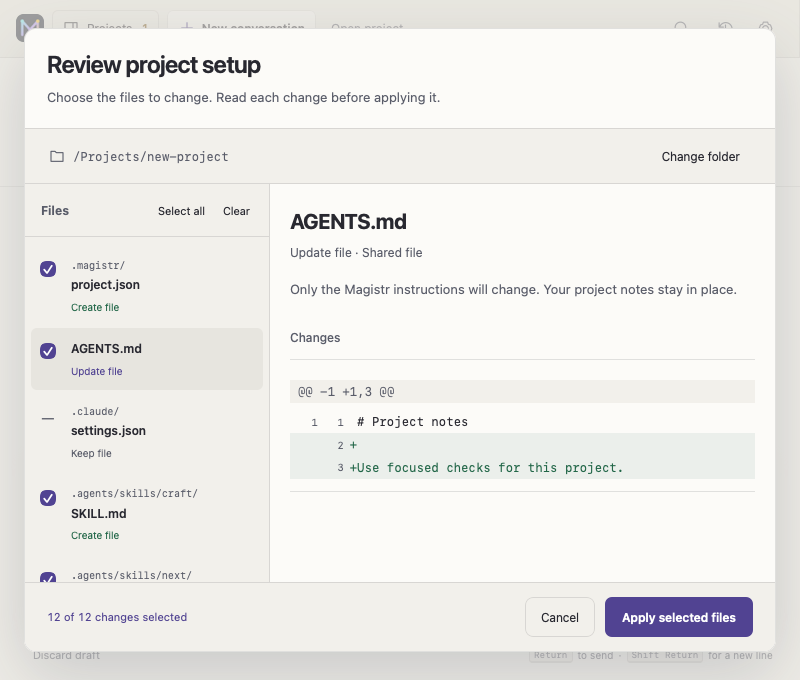
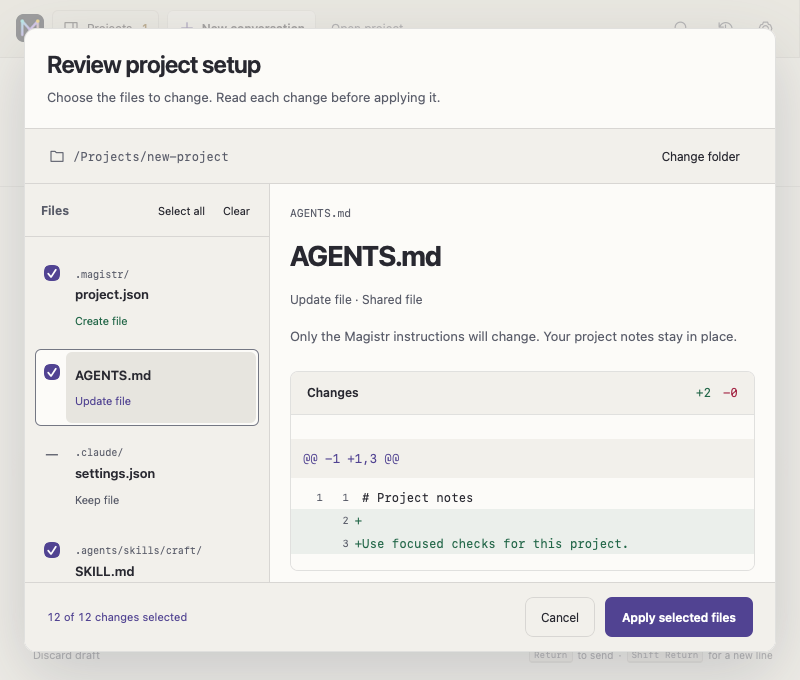
feat(desktop): turn setup review into a structured source inspection surface

diff --git a/crates/magistr-desktop/ui/style.css b/crates/magistr-desktop/ui/style.css
@@ -364,23 +364,25 @@ dialog h3{margin:20px 0 10px;font-size:17px}.dialog-actions{display:flex;justify
 .setup-list{display:flex;flex-direction:column;min-height:0;background:var(--panel);border-right:1px solid var(--separator)}
 .setup-selection{display:flex;align-items:center;gap:4px;padding:10px 12px;flex-shrink:0;border-bottom:1px solid var(--separator)}
 .setup-selection h3{font-size:12px;color:var(--muted);margin:0 8px 0 4px;flex:1}.setup-selection button{border-color:transparent;background:transparent;font-size:11px;padding:4px 6px}
-#setup-files{overflow:auto;min-height:0;padding:6px}
+#setup-files{overflow:auto;min-height:0;padding:10px}
 .setup-file{display:flex;align-items:flex-start;gap:6px;padding:3px;border:0;border-radius:6px}
-.setup-file:has([aria-current=true]){background:var(--raised)}.setup-file{margin:3px 0}.setup-file input{width:16px;min-height:16px;flex-shrink:0;margin:12px 0 0 6px;accent-color:var(--accent)}
+.setup-file:has([aria-current=true]){background:var(--base);outline:1px solid var(--line);outline-offset:-1px}.setup-file{margin:3px 0}.setup-file input{width:16px;min-height:16px;flex-shrink:0;margin:12px 0 0 6px;accent-color:var(--accent)}
 .setup-kept{width:16px;flex-shrink:0;margin:10px 0 0 6px;color:var(--muted);text-align:center}
-.setup-file-open{flex:1;min-width:0;background:transparent;border-color:transparent!important;padding:7px 8px;font-size:12px}
+.setup-file-open{flex:1;min-width:0;background:transparent;border-color:transparent!important;padding:12px 8px;font-size:13px}
 .setup-file-open span{display:block;overflow-wrap:anywhere;font-weight:550}.setup-file-open small{display:block;color:var(--muted);font-size:11px;margin-top:4px}.setup-file[data-action="Create file"] .setup-file-action{color:var(--success)}.setup-file[data-action="Update file"] .setup-file-action{color:var(--accent)}.setup-file[data-action="Remove file"] .setup-file-action{color:var(--danger)}
 #setup-change{overflow:auto;min-width:0;padding:28px;scroll-padding-block:28px}
-#setup-change h3{font-size:21px;letter-spacing:-.025em;overflow-wrap:anywhere;margin:0 0 6px}#setup-change h4{font-size:12px;color:var(--muted);font-weight:500;margin:28px 0 12px}
+#setup-change h3{font-size:28px;letter-spacing:-.035em;overflow-wrap:anywhere;margin:0 0 12px}
+.setup-file-path{font:11px/1.6 var(--font-code);overflow-wrap:anywhere;margin:0 0 12px;color:var(--muted)}
+.setup-code-sheet{margin:24px 0 0;border:1px solid var(--separator);border-radius:8px;overflow:hidden}.setup-code-sheet figcaption{display:flex;align-items:center;justify-content:space-between;gap:16px;padding:12px 16px;background:var(--panel);font-size:12px;font-weight:600}.setup-delta{display:flex;gap:12px;font:12px var(--font-code)}.setup-delta .added{color:var(--success)}.setup-delta .removed{color:var(--danger)}.setup-code-sheet>p{padding:16px;margin:0;font-size:13px}
 #setup-change .setup-change-meta{font-size:12px;margin:0;color:var(--muted)}#setup-change .setup-reason{font-size:13px;margin:16px 0 0}
-#setup-change .setup-source{font:12px/1.9 var(--font-code);white-space:pre-wrap;overflow-wrap:anywhere;padding:12px 0;background:var(--base);border-block:1px solid var(--separator);margin:0;tab-size:2}
-.source-line{display:grid;grid-template-columns:3.5ch minmax(0,1fr);min-height:1.9em;padding-inline:8px}
+#setup-change .setup-source{font:12px/1.9 var(--font-code);white-space:pre-wrap;overflow-wrap:anywhere;padding:16px 0;background:var(--base);border-top:1px solid var(--separator);margin:0;tab-size:2}
+.source-line{display:grid;grid-template-columns:4ch minmax(0,1fr);min-height:1.9em;padding-inline:12px}
 .setup-diff .source-line{grid-template-columns:3.5ch 3.5ch minmax(0,1fr)}
 .source-number{color:var(--muted);user-select:none;text-align:right;padding-right:1ch;font-size:10px;line-height:2.28}
 .source-number::before{content:attr(data-line)}.source-text{white-space:pre-wrap;overflow-wrap:anywhere;min-width:0}
-.diff-hunk{color:var(--muted);background:var(--panel);margin-block:8px}.diff-hunk .source-text{grid-column:1/-1}
+.diff-hunk{color:var(--accent);background:var(--panel);padding-block:8px;margin-block:8px}.diff-hunk .source-text{grid-column:1/-1}
 .setup-file-open .setup-file-directory{font:10px/1.5 var(--font-code);margin:0 0 3px;color:var(--muted)}
-.setup-file-open strong{font-size:12px;font-weight:600}.setup-file-open .setup-file-action{margin-top:5px;font-size:10px}
+.setup-file-open strong{font-size:13px;font-weight:600}.setup-file-open .setup-file-action{margin-top:8px;font-size:11px}
 .diff-added{color:var(--success);background:color-mix(in srgb,var(--success) 8%,transparent)}.diff-removed{color:var(--danger);background:color-mix(in srgb,var(--danger) 8%,transparent)}
 .picker-footer{justify-content:space-between}
 .picker-footer>p{font-size:11px;margin:0;font-variant-numeric:tabular-nums;color:var(--accent)}.picker-footer .dialog-actions{margin:0 0 0 auto}
